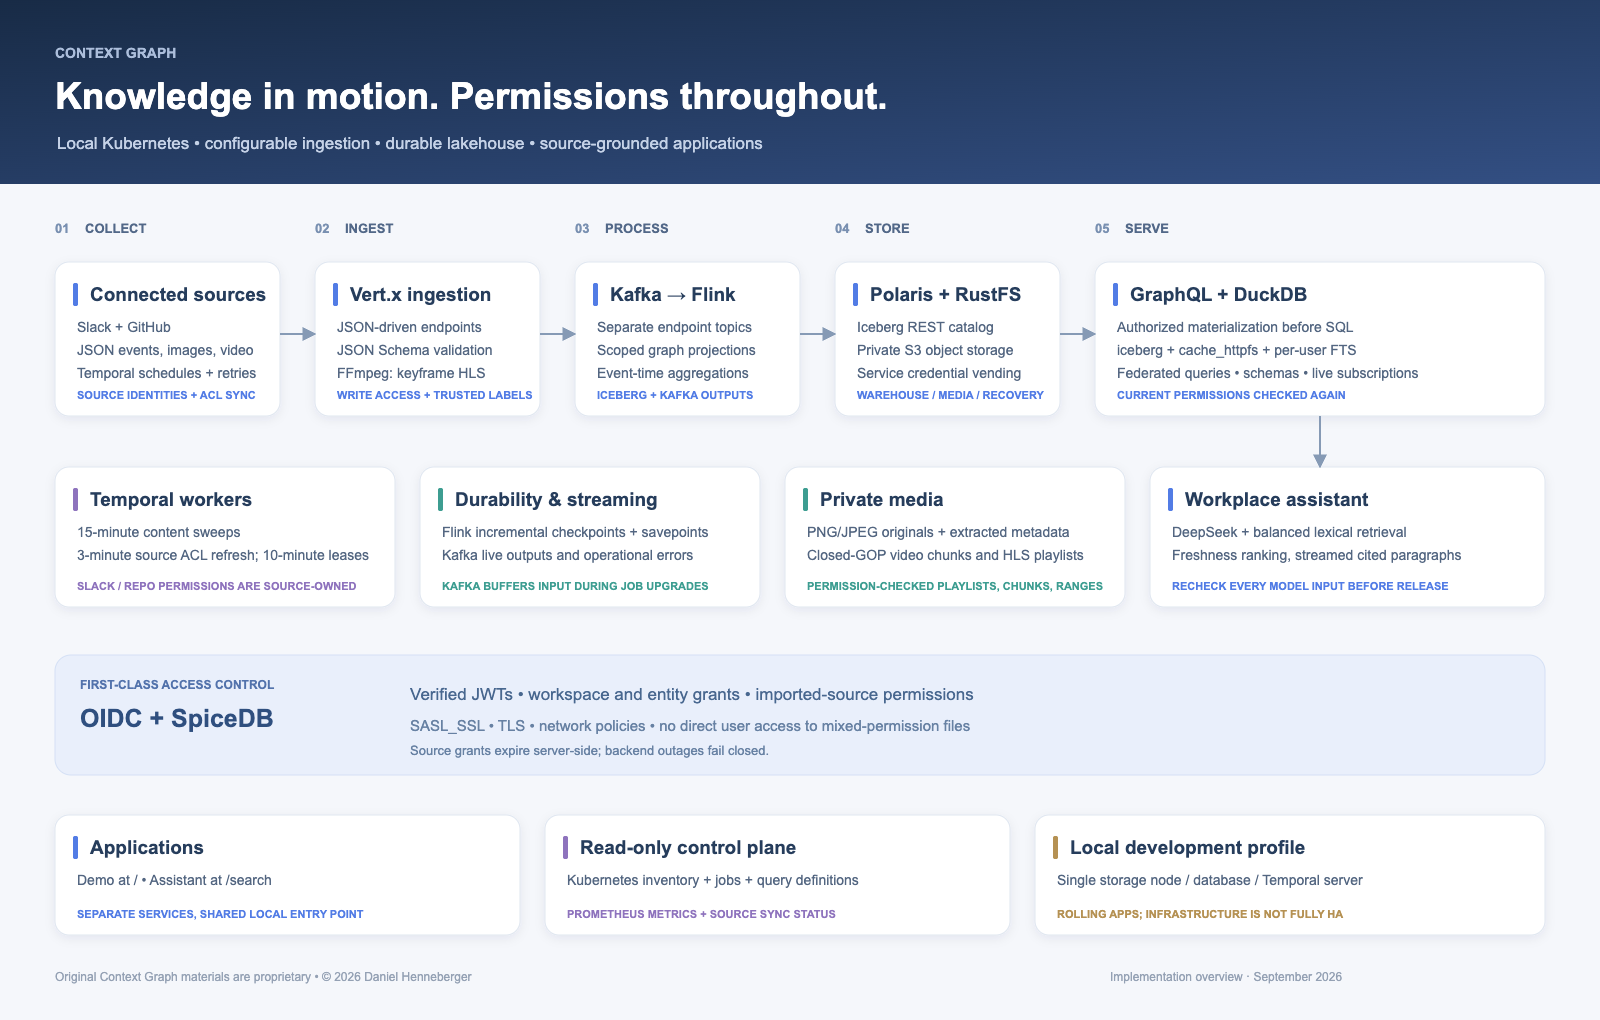
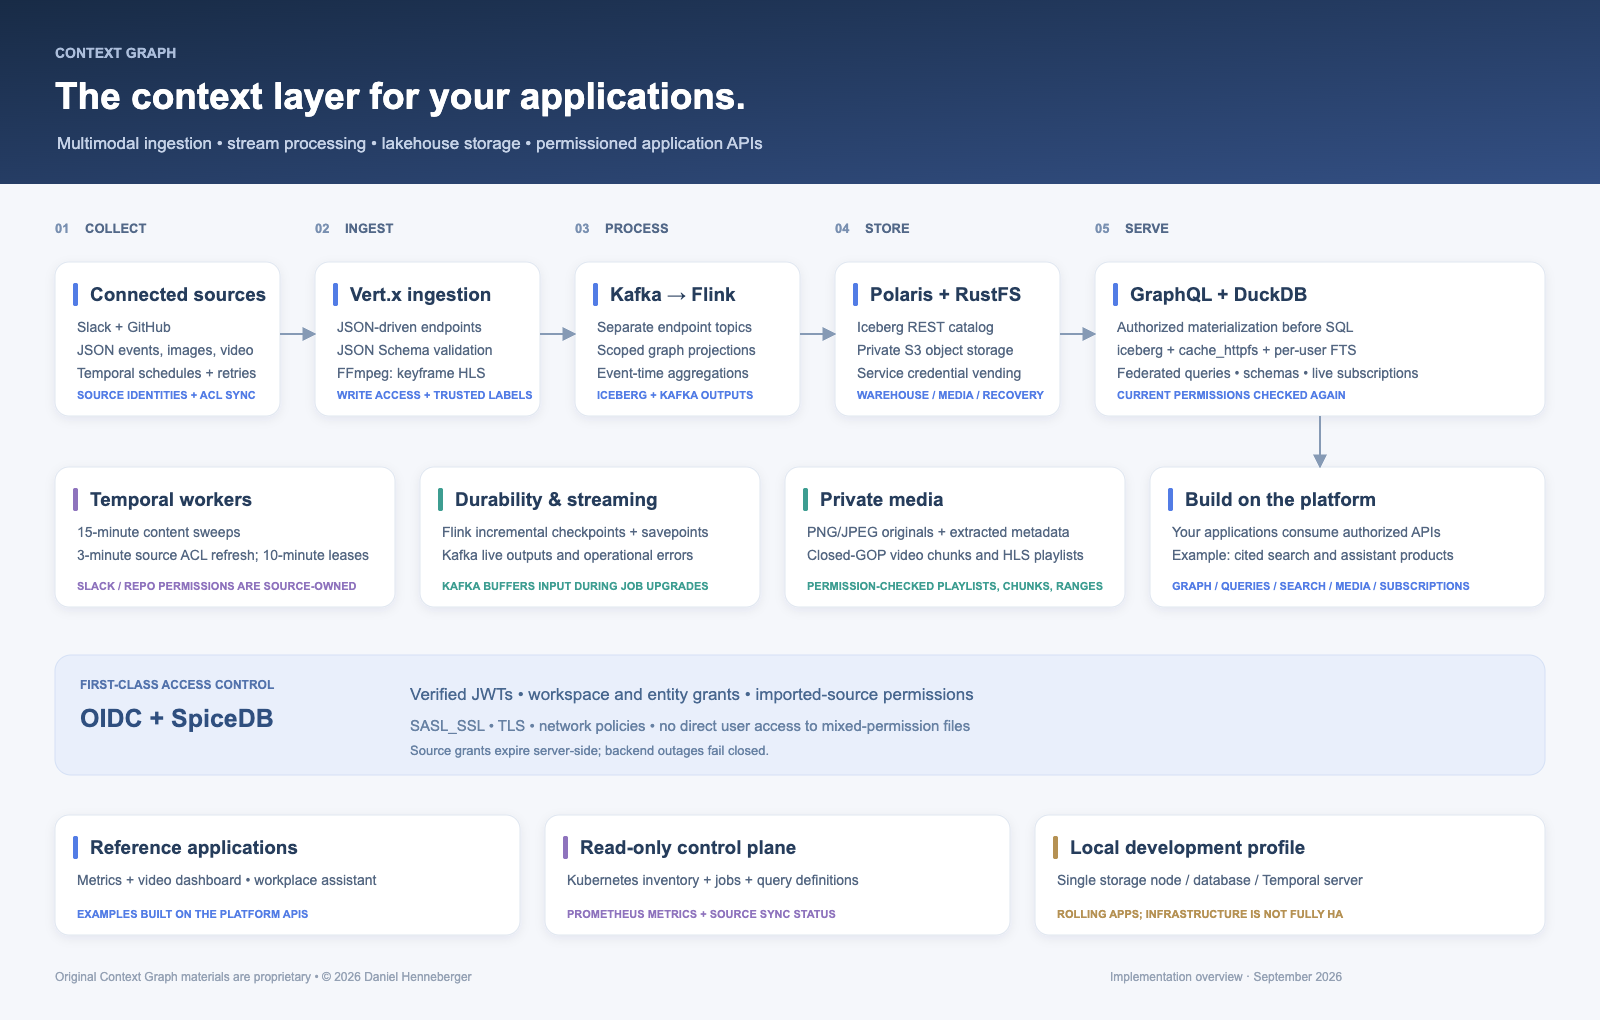
Position Context Graph as an application platform and remove localhost links

Changed region(s): [[0.0312, 0.0608, 0.5625, 0.152], [0.7188, 0.4863, 0.9062, 0.5775], [0.0625, 0.8206, 0.2188, 0.9118]]

diff --git a/README.md b/README.md
@@ -1,16 +1,18 @@
 # Context Graph
 
-**A permissioned streaming knowledge platform with multimodal ingestion, a queryable context graph, and a source-grounded workplace assistant.**
+**Infrastructure for building applications on a permissioned, continuously updated context graph.**
 
 > **Proprietary software — not free software and not open source.** Copyright © 2026 Daniel Henneberger. All rights reserved. Use, modification, hosting, and redistribution require a separate written license. See [LICENSE](LICENSE). Third-party components retain their own licenses.
 
-Context Graph turns JSON events, images, video, Slack conversations, and GitHub activity into a shared, permissioned data foundation. Applications consume it through authenticated APIs rather than gaining direct access to the underlying files. A conversational assistant, a metrics/video demo, and a read-only operations console demonstrate how to build on that foundation.
+Context Graph is a platform for ingesting multimodal data, processing streams, persisting a lakehouse, and exposing a permissioned context graph to applications. It combines **Vert.x, Kafka, Flink, Iceberg, Polaris, DuckDB, and SpiceDB** into a configurable foundation that other products can build on.
 
-[Screenshots](#screenshots) · [Architecture](#architecture) · [Local setup](#local-setup) · [Security](#security-and-permissions) · [Search](#workplace-search-and-assistant) · [Configuration](#configuration) · [Operations](#operations-and-deployment) · [Limitations](#current-scope-and-limitations) · [License](#license)
+Applications use the platform's query, graph, search, media, and subscription APIs. The platform handles ingestion, schema validation, temporal processing, storage, source identity mapping, authorization, and operational visibility. A Glean-style assistant and a metrics/video dashboard are included as **reference applications built on these capabilities**.
 
-![Context workplace assistant](docs/search-home.png)
+[Architecture](#architecture) · [Build applications](#building-applications-on-the-graph) · [Capabilities](#platform-capabilities) · [Security](#security-and-permissions) · [Configuration](#configuration) · [Operations](#operations-and-deployment) · [Local setup](#local-setup) · [License](#license)
 
-## What is implemented
+[![Context Graph platform architecture](docs/diagrams/context-graph-overview.png)](docs/diagrams/context-graph-overview.svg)
+
+## Platform capabilities
 
 | Capability | Implementation |
 |---|---|
@@ -23,37 +25,13 @@ Context Graph turns JSON events, images, video, Slack conversations, and GitHub 
 | Serving API | Generated/configured GraphQL fields, federated DuckDB queries, schema discovery, Kafka-backed subscriptions |
 | Authorization | Verified OIDC identities, SpiceDB workspace/entity/source permissions, fail-closed checks |
 | Source connectors | Temporal schedules for Slack and a GitHub repository allowlist, source identities, ACL synchronization, deletion handling |
-| Workplace assistant | Lexical BM25 plus freshness weighting, streamed cited paragraphs, follow-ups, and source inspection |
+| Search capability | Permission-filtered lexical BM25, freshness weighting, and document lookup for downstream applications |
 | Operations | Separate read-only control frontend/API, Kubernetes inventory, source status, Prometheus metrics |
 | Validation | Unit tests, real-service security checks, source-permission expiry checks, media tests, and browser evidence |
 
-This is a functioning local Kubernetes implementation, not a claim of production certification or complete Glean feature parity. The graph currently contains entities, labeled events, configurable nodes/edges, source relationships, and user access relationships. Automatic extraction of a complete organizational ontology is future work.
-
-## Screenshots
-
-The screenshots show the running application and local demonstration data, not design mockups.
-
-**Cited workplace answers** — a real answer about Mari, grounded in repository evidence.
-
-![Workplace assistant with a cited Mari answer](docs/search-answer.png)
-
-<details>
-<summary>Metrics, context graph, and keyframe-aligned video demo</summary>
-
-![Authenticated metrics and video demonstration](docs/dashboard-secure.png)
-
-</details>
-
-<details>
-<summary>Read-only control plane: workloads, jobs, sources, queries, and metrics</summary>
-
-![Read-only Kubernetes control plane](docs/control-plane.png)
-
-</details>
+The platform is implemented and exercised on local Kubernetes. Its current deployment profile has the availability and scale limits described below. The graph currently contains entities, labeled events, configurable nodes/edges, source relationships, and user access relationships. Automatic extraction of a complete organizational ontology is future work.
 
 ## Architecture
-
-[![Context Graph architecture overview](docs/diagrams/context-graph-overview.png)](docs/diagrams/context-graph-overview.svg)
 
 [Download the SVG](docs/diagrams/context-graph-overview.svg) · [PNG](docs/diagrams/context-graph-overview.png)
 
@@ -95,17 +73,21 @@ flowchart TB
     V --> M
     I --> M
   end
-  subgraph Serving
+  subgraph Platform_serving[Platform serving APIs]
     Q[Vert.x GraphQL serving API]
     D[DuckDB: iceberg + cache_httpfs + fts]
-    SA[Search / assistant API]
-    LLM[DeepSeek]
-    UI[Workplace assistant]
-    DEMO[Metrics / video demo]
     Q --> D
     D --> P
     D --> W
     LIVE --> Q
+  end
+  subgraph Reference_applications[Reference applications and extension points]
+    APP[Your applications]
+    SA[Example assistant API]
+    LLM[DeepSeek]
+    UI[Example assistant UI]
+    DEMO[Example metrics / video dashboard]
+    Q --> APP
     Q --> SA
     SA --> LLM
     SA --> UI
@@ -144,7 +126,7 @@ The [detailed architecture documentation](docs/architecture.md), [lakehouse desi
 3. Kafka isolates endpoint streams. Flink consumes labeled events, applies configured transformations, creates graph projections, and calculates temporal metrics.
 4. Flink writes Iceberg tables and optional Kafka outputs. Iceberg lives in RustFS; Polaris supplies catalog operations and service credential vending.
 5. The serving API checks the caller's permissions, materializes authorized source rows, then runs configured SQL. Kafka feeds authorized live subscriptions.
-6. The assistant retrieves only authorized documents and rechecks every model input before releasing each complete cited paragraph.
+6. Downstream applications use these APIs to build products. The included assistant demonstrates authorized retrieval and checks every model input before releasing each cited paragraph.
 
 ### Technology profile
 
@@ -164,6 +146,50 @@ These are pinned repository versions, not an assertion that every component is t
 | Telemetry | Prometheus, service metrics, exporters, OpenTelemetry collector |
 
 The Kafka/Iceberg connector compatibility checks are application-specific evidence for this Flink profile. A custom connector fork is not required by the current implementation; schema handling is implemented at the application boundary.
+
+## Building applications on the graph
+
+The stable integration boundary is the serving API. Build new services and frontends on its authorized results rather than bypassing it with direct access to mixed-permission lakehouse files.
+
+| Extension point | How to build on it |
+|---|---|
+| New data sources | Add an authenticated producer or connector and configure endpoint/topic/schema mappings |
+| Stream transformations | Extend job configuration or processor code while preserving resource labels and scoped aggregation keys |
+| Graph relationships | Configure node/edge projections and add domain-specific relationships |
+| Durable application queries | Register Iceberg sources and named, parameterized GraphQL/SQL views |
+| Live application state | Consume authorized GraphQL subscriptions backed by Kafka outputs |
+| Search and AI products | Retrieve authorized documents, preserve source references, and recheck access before returning derived answers |
+| Media applications | Use protected image, playlist, chunk, and range endpoints |
+
+Use `/graphql` with a verified bearer token and `X-Workspace-Id`. The generated schema exposes configured metrics, nodes, edges, media, schemas, federated fields, and document search. For example:
+
+```graphql
+query {
+  metricTotals(metric: "value") {
+    metric
+    sample_count
+    sum_value
+  }
+}
+```
+
+The sum is calculated from authorized contributors. Add named queries and registered sources in YAML to create additional application views. Federated queries authorize each registered Iceberg input separately before joining them. Schema discovery does not expose raw storage credentials or arbitrary physical metadata paths.
+
+For live data, initialize a `graphql-transport-ws` connection with:
+
+```json
+{
+  "type": "connection_init",
+  "payload": {
+    "authorization": "Bearer <JWT>",
+    "workspaceId": "demo"
+  }
+}
+```
+
+Then subscribe to configured fields such as `metricUpdated`. Kafka streams supply live results; Iceberg supplies durable queryable state. Cross-table snapshots and Kafka/Iceberg transactions are not globally atomic.
+
+Useful next applications include project activity views, ownership/relationship exploration, change summaries, and decision timelines. Rich automatic links between people, projects, decisions, conversations, and code changes are an extension of the current foundation, not something this README claims is already complete.
 
 ## Local setup
 
@@ -250,7 +276,7 @@ python scripts/deploy-search.py --context "$KUBE_CONTEXT" --node "$STORAGE_NODE"
 
 The fixture creates the demo workspace and its grants; the search release installs the imported-source schema and broker topic/ACL provisioning. Source workers establish the configured knowledge-workspace identities and source grants. Administrative provisioning is distinct from ingestion: generators never grant themselves permissions.
 
-### 5. Open the applications
+### 5. Open the local reference applications
 
 Run each forward in its own terminal:
 
@@ -262,11 +288,11 @@ kubectl --context "$KUBE_CONTEXT" -n context-graph \
   port-forward service/control-ui 18089:8080
 ```
 
-| Application | Address | Access |
+| Application | Route after port forwarding | Access |
 |---|---|---|
-| Metrics/video demo | http://localhost:18088/ | Select `demo`; use a provisioned demo identity |
-| Workplace assistant | http://localhost:18088/search | Existing local credentials; knowledge-workspace access required |
-| Read-only control plane | http://localhost:18089/ | Separate platform administrator permission |
+| Metrics/video demo | `/` on the dashboard forward | Select `demo`; use a provisioned demo identity |
+| Workplace assistant | `/search` on the dashboard forward | Existing local credentials; knowledge-workspace access required |
+| Read-only control plane | `/` on the control-ui forward | Separate platform administrator permission |
 
 Local passwords are generated in `.runtime/security/credentials.json`; there is no checked-in default password. The `admin` account has the local demo/platform grants, and the configured source identity links grant its knowledge access. Alice/Bob demonstrate disjoint demo access; they do not automatically gain knowledge-workspace access.
 
@@ -300,9 +326,9 @@ PostgreSQL persists SpiceDB and Polaris state and connector bookkeeping in separ
 
 See [security architecture](docs/security-architecture.md), [network boundaries](docs/network-security.md), and [source authorization](docs/search.md) for trust assumptions, exact contracts, and deployment-specific limits.
 
-## Workplace search and assistant
+## Reference application: workplace search and assistant
 
-The default `/search` experience is a conversation: ask a question, see live retrieval activity, receive cited paragraphs as they are generated, inspect sources in a side panel, and ask follow-ups. Traditional document search is a separate view.
+The included Glean-style reference application at the `/search` route demonstrates the platform’s retrieval and permission APIs. Its experience is a conversation: ask a question, see live retrieval activity, receive cited paragraphs as they are generated, inspect sources in a side panel, and ask follow-ups. Traditional document search is a separate view.
 
 ### Retrieval and ranking
 
@@ -356,38 +382,6 @@ aggregations:
 ```
 
 Event-time windows depend on advancing watermarks. A fully idle input does not necessarily close its last window because wall-clock time passed. Aggregation scope always includes the authorization boundary.
-
-## Building applications on the graph
-
-Use `/graphql` with a verified bearer token and `X-Workspace-Id`. The generated schema exposes configured metrics, nodes, edges, media, schemas, federated fields, and document search. For example:
-
-```graphql
-query {
-  metricTotals(metric: "value") {
-    metric
-    sample_count
-    sum_value
-  }
-}
-```
-
-The sum is calculated from authorized contributors. Add named queries and registered sources in YAML to create additional application views. Federated queries authorize each registered Iceberg input separately before joining them. Schema discovery does not expose raw storage credentials or arbitrary physical metadata paths.
-
-For live data, initialize a `graphql-transport-ws` connection with:
-
-```json
-{
-  "type": "connection_init",
-  "payload": {
-    "authorization": "Bearer <JWT>",
-    "workspaceId": "demo"
-  }
-}
-```
-
-Then subscribe to configured fields such as `metricUpdated`. Kafka streams supply live results; Iceberg supplies durable queryable state. Cross-table snapshots and Kafka/Iceberg transactions are not globally atomic.
-
-Useful next applications include project activity views, ownership/relationship exploration, change summaries, and decision timelines. Rich automatic links between people, projects, decisions, conversations, and code changes are an extension of the current foundation, not something this README claims is already complete.
 
 ## Generators and media
 
@@ -482,6 +476,32 @@ python scripts/security-smoke.py --help
 `--ask` makes a real DeepSeek request. The full security smoke uses fixture writes and revocations; review its options and [security validation](docs/security-validation.md) before running it against shared data. Some development scripts default to `docker-desktop`; inspect their options before targeting another cluster.
 
 Recorded evidence includes [streamed Mari answers](docs/evidence/streaming-search.json), [assistant browser checks](docs/evidence/assistant-browser.json), [source lease expiry](docs/evidence/source-permissions.json), [pipeline security](docs/evidence/search-pipeline-security.json), and [control-plane checks](docs/evidence/control-plane.json). These record particular runs, not continuous guarantees or general capacity benchmarks.
+
+## Platform and reference-application screenshots
+
+These screenshots show the running platform and included reference applications with demonstration data.
+
+**Platform control plane** — infrastructure inventory, Flink jobs, source status, query definitions, and metrics.
+
+<details>
+<summary>View the read-only platform control plane</summary>
+
+![Context Graph platform control plane](docs/control-plane.png)
+
+</details>
+
+**Multimodal reference application** — graph relationships, temporal metrics, and protected keyframe-aligned video.
+
+![Multimodal reference application built on Context Graph](docs/dashboard-secure.png)
+
+<details>
+<summary>Glean-style reference application built on the platform</summary>
+
+The assistant demonstrates permissioned retrieval, streamed answers, and citations. It is one application on the platform.
+
+![Example assistant using the Context Graph APIs](docs/search-answer.png)
+
+</details>
 
 ## Repository layout
 

diff --git a/docs/control-plane.md b/docs/control-plane.md
@@ -1,6 +1,6 @@
 # Read-only control plane
 
-Open **http://localhost:18089/** through a separate `kubectl --context docker-desktop -n context-graph port-forward svc/control-ui 18089:8080` forward. The gear link on the data dashboard opens this view. The local `admin` identity has the separate platform grant; ordinary workspace members do not. Tokens stay in browser memory and expire after five minutes with the local issuer. Sign in again after expiry.
+Open the `/` route on the local control-plane port forward, created with `kubectl --context docker-desktop -n context-graph port-forward svc/control-ui 18089:8080` forward. The gear link on the data dashboard opens this view. The local `admin` identity has the separate platform grant; ordinary workspace members do not. Tokens stay in browser memory and expire after five minutes with the local issuer. Sign in again after expiry.
 
 The control service uses its namespace-scoped Kubernetes service account to read Deployments, StatefulSets, Pods, Services, FlinkDeployments and ConfigMaps. It returns selected operational fields and the API, job and query definitions referenced by deployed workloads. It does not read Secrets, logs, pod execution endpoints, arbitrary URLs or arbitrary PromQL. SQL is displayed, not executed. Suspended jobs and scaled-down workloads remain visible.
 

diff --git a/docs/search.md b/docs/search.md
@@ -1,6 +1,6 @@
 # Permissioned workplace search
 
-Search runs at http://localhost:18088/search in its own React/shadcn frontend and search API. The read-only control frontend runs separately at http://localhost:18089/. Use the existing local admin login. Tokens stay in browser memory. To recreate the forwards:
+The search reference application is routed at `/search` through the dashboard forward on port `18088`, with its own React/shadcn frontend and search API. The read-only control frontend uses a separate forward on port `18089`. Use the existing local admin login. Tokens stay in browser memory. To recreate the forwards:
 
 ```sh
 kubectl --context docker-desktop -n context-graph port-forward svc/dashboard 18088:8080
